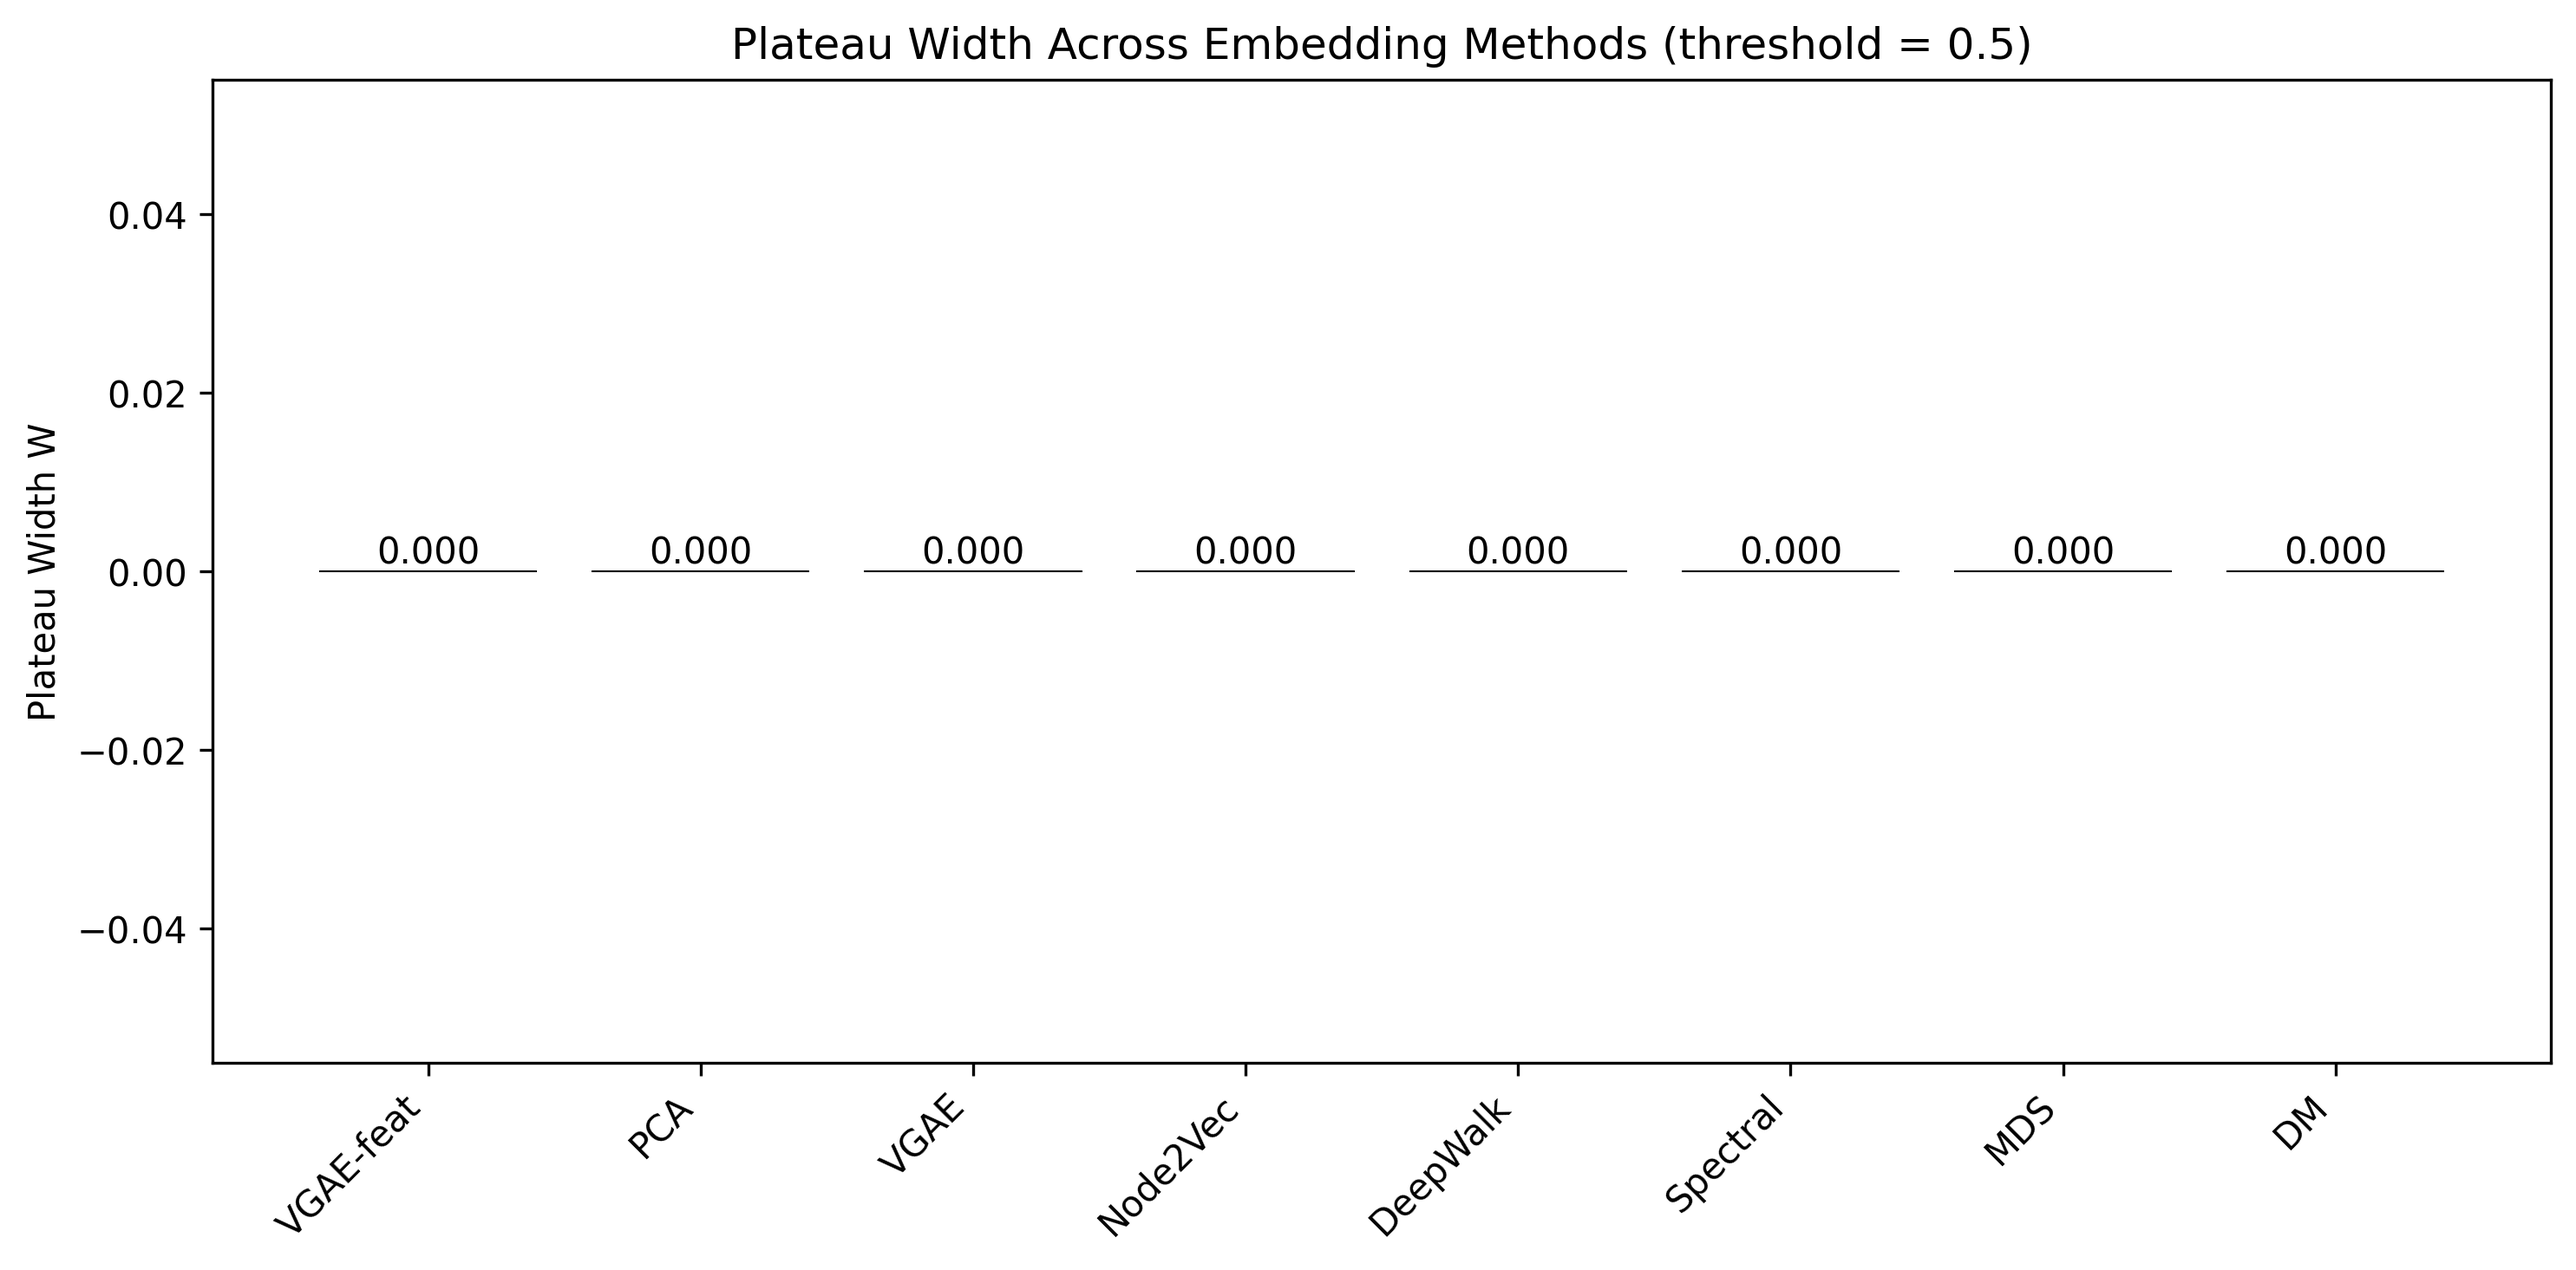
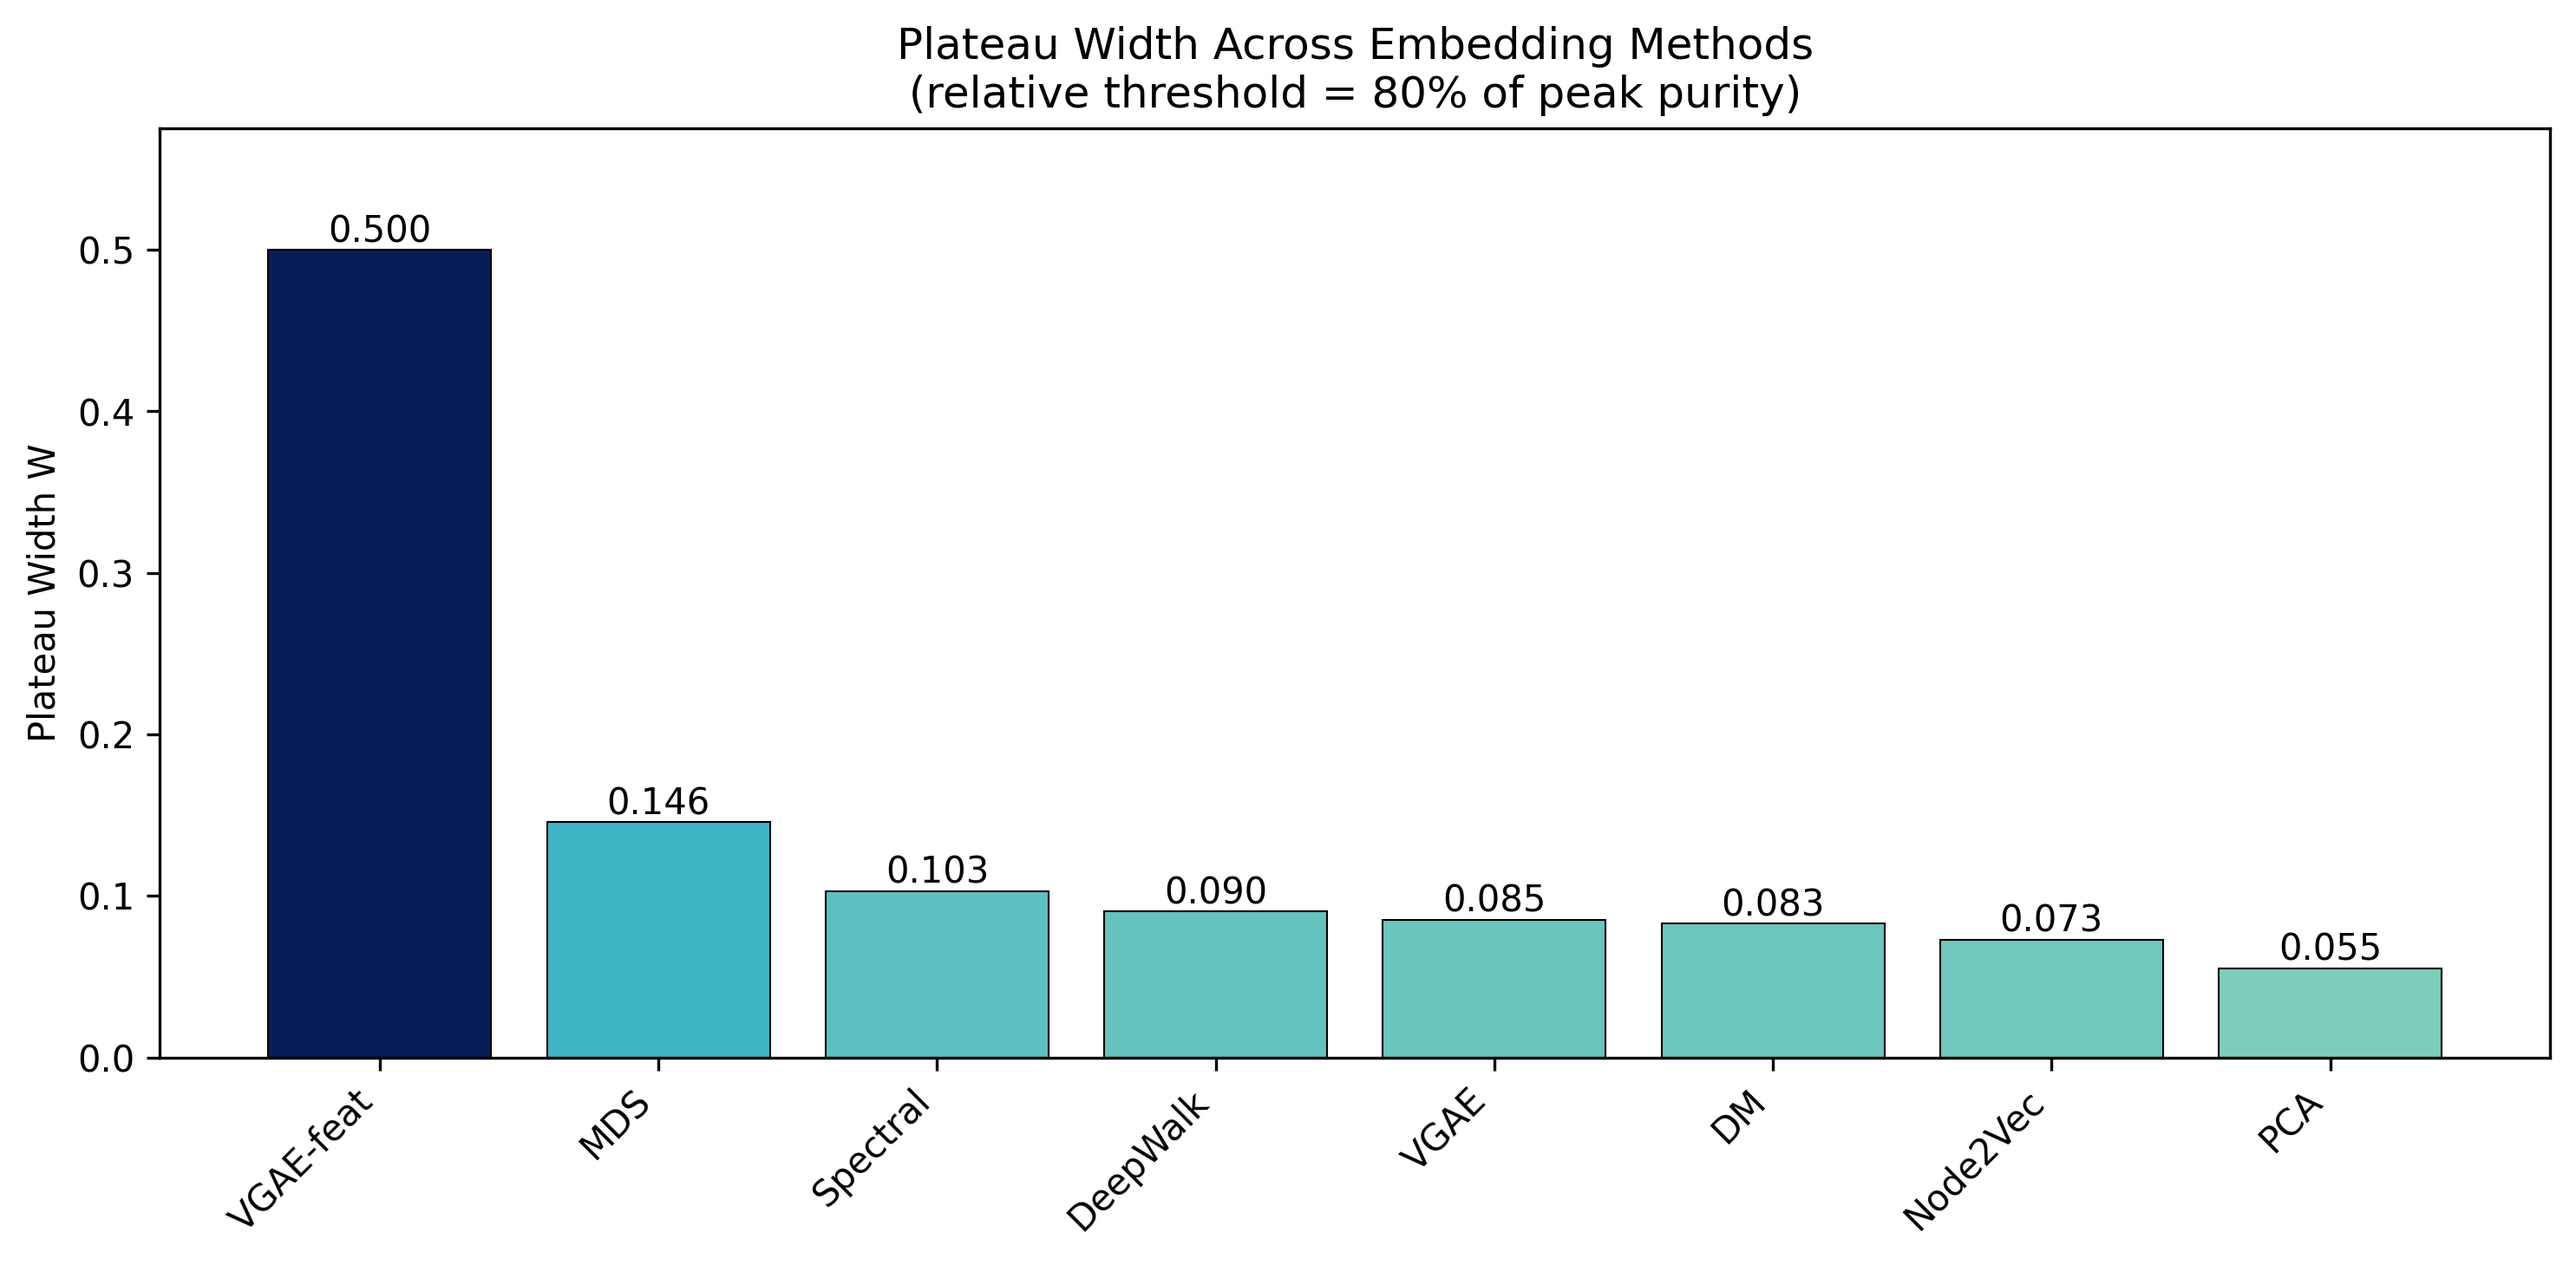
regenerate 4 broken figures, improve plotting scripts

diff --git a/scripts/plot_figures.py b/scripts/plot_figures.py
@@ -363,17 +363,38 @@ def plot_supplementary_30vs200(results_dir, figures_dir):
     if n_methods == 1:
         axes = [axes]
 
+    # Collect data first, then plot grouped bars
+    max_val = 0.0
     for ax, method in zip(axes, methods):
         mdata = data[method]
+        labels, heights, colors = [], [], []
         for grid_name in ["30", "200"]:
             if grid_name in mdata:
-                ax.bar(grid_name, mdata[grid_name]["plateau_width"],
-                       color='steelblue' if grid_name == "200" else 'coral')
+                labels.append(grid_name)
+                pw = mdata[grid_name]["plateau_width"]
+                heights.append(pw)
+                colors.append('steelblue' if grid_name == "200" else 'coral')
+                max_val = max(max_val, pw)
+        if heights:
+            ax.bar(labels, heights, color=colors, edgecolor='black',
+                   linewidth=0.5, width=0.5)
         ax.set_title(method)
         ax.set_ylabel('Plateau width W')
 
+    # Set consistent y-axis limits across all subplots
+    if max_val > 0:
+        for ax in axes:
+            ax.set_ylim(0, max_val * 1.2)
+
+    # Add legend
+    from matplotlib.patches import Patch
+    legend_elements = [Patch(facecolor='coral', edgecolor='black', label='30 pts'),
+                       Patch(facecolor='steelblue', edgecolor='black', label='200 pts')]
+    fig.legend(handles=legend_elements, loc='upper right', fontsize=9,
+               bbox_to_anchor=(0.98, 0.98))
+
     plt.suptitle('Plateau Width: 30-point vs 200-point Grid')
-    plt.tight_layout()
+    plt.tight_layout(rect=[0, 0, 0.95, 1])
     plt.savefig(figures_dir / "comparison_30vs200_points.png", dpi=300, bbox_inches='tight')
     plt.close()
     print("Supplementary 30vs200 comparison saved")
@@ -414,9 +435,13 @@ def plot_figure7_plateau_width(results_dir, figures_dir):
     bars = ax.bar(methods, widths, color=colors, edgecolor='black', linewidth=0.5)
 
     ax.set_ylabel('Plateau Width W')
-    ax.set_title('Plateau Width Across Embedding Methods (threshold = 0.5)')
+    ax.set_title('Plateau Width Across Embedding Methods\n(relative threshold = 80% of peak purity)')
     ax.set_xticks(range(len(methods)))
     ax.set_xticklabels(methods, rotation=45, ha='right')
+
+    # Ensure y-axis starts at 0 with headroom for labels
+    if max(widths) > 0:
+        ax.set_ylim(0, max(widths) * 1.15)
 
     for bar, val in zip(bars, widths):
         ax.text(bar.get_x() + bar.get_width()/2, bar.get_height(),

diff --git a/scripts/biological_interpretation.py b/scripts/biological_interpretation.py
@@ -912,7 +912,7 @@ def generate_three_panel_figure(
     # ==================================================================
     ax_a = axes[0]
     ax_a.set_title(
-        "(A) Embedding Space Distribution", fontsize=11, fontweight="bold"
+        "(A) Embedding Space", fontsize=11, fontweight="bold"
     )
 
     # Draw background (non-cluster) nodes first
@@ -1089,9 +1089,9 @@ def generate_three_panel_figure(
     ax_c.axis("off")
 
     # ---- Save ----
-    fig.tight_layout(rect=[0, 0, 1, 0.95])
+    fig.tight_layout(rect=[0.03, 0, 1, 0.92])
     output_path = figures_dir / "FigS5_biological_case_study.png"
-    fig.savefig(str(output_path), dpi=300, bbox_inches="tight", pad_inches=0.3)
+    fig.savefig(str(output_path), dpi=300, bbox_inches="tight", pad_inches=0.5)
     plt.close(fig)
 
     return fig
@@ -1222,6 +1222,7 @@ def _draw_go_dag_panel(ax, dag):
             label, (x, y),
             textcoords="offset points", xytext=(x_offset, 0),
             fontsize=6.5, va="center", ha=ha_align,
+            clip_on=False,
             bbox=dict(boxstyle="round,pad=0.15", facecolor="white",
                       alpha=0.80, edgecolor="none"),
         )
@@ -1253,7 +1254,7 @@ def _draw_go_dag_panel(ax, dag):
         y_min, y_max = min(all_y), max(all_y)
         x_pad = max((x_max - x_min) * 0.35, 1.5)
         y_pad = max((y_max - y_min) * 0.15, 0.5)
-        ax.set_xlim(x_min - x_pad, x_max + x_pad * 3.0)
+        ax.set_xlim(x_min - x_pad, x_max + x_pad * 5.0)
         ax.set_ylim(y_min - y_pad, y_max + y_pad)
 
 

diff --git a/scripts/visualization_helpers.py b/scripts/visualization_helpers.py
@@ -4,7 +4,7 @@ visualization_helpers.py
 
 Reusable plotting functions for the G-F Consistency Framework.
 
-All plots adhere to the journal *Bioinformatics* figure standards:
+All plots adhere to publication-quality figure standards:
 
 - Resolution: 300 dpi (PNG)
 - Font size: minimum 8pt for all text elements
